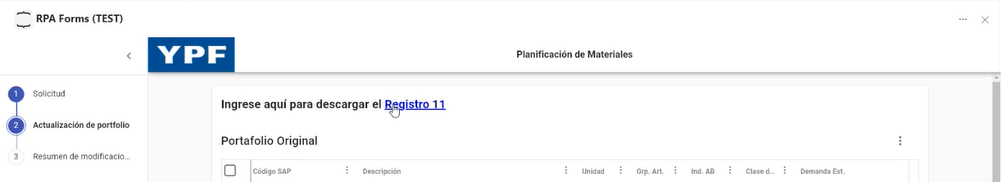
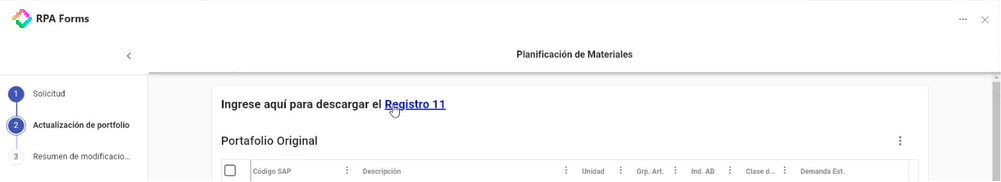
GITBOOK-34: actualizacion imagenes

diff --git a/diseno-de-formularios/desarrollo-integral-de-un-formulario/campos-de-fecha-y-hora.md b/diseno-de-formularios/desarrollo-integral-de-un-formulario/campos-de-fecha-y-hora.md
@@ -1,18 +1,18 @@
 # Campos de fecha y hora
 
-Los elementos _**Date**_ y _**DateTime**_ permiten agregar un calendario donde el usuario seleccionará un día, mes y año (y, en el caso de _**DateTime**_, también una hora). A diferencia de otras opciones para ingresar el mismo tipo de datos (por ejemplo, un campo de texto con máscaras), estas herramientas son especialmente útiles para unificar formatos y evitar errores en la carga de información.&#x20;
+Los elementos _**Date**_ y _**DateTime**_ permiten agregar un calendario donde el usuario seleccionará un día, mes y año (y, en el caso de _**DateTime**_, también una hora). A diferencia de otras opciones para ingresar el mismo tipo de datos (por ejemplo, un campo de texto con máscaras), estas herramientas son especialmente útiles para unificar formatos y evitar errores en la carga de información.
 
 ## Date
 
 Los campos de fecha pueden utilizarse para ubicar en el tiempo eventos importantes o delimitar plazos. Dado que su función es muy específica, sus opciones de personalización son limitadas y el formato ya estará predefinido.
 
-<figure><img src="../../.gitbook/assets/RPA_2_17.png" alt=""><figcaption><p>Inserción de un campo de tipo <em><strong>Date</strong></em></p></figcaption></figure>
+
+
+<figure><img src="../../.gitbook/assets/build_elementos_higlight_field_date.png" alt=""><figcaption><p>Inserción de un campo de tipo <em><strong>Date</strong></em></p></figcaption></figure>
 
 Añadiremos un campo requerido _**Date**_ en la sección de "Datos personales" del formulario para que el usuario pueda escoger su fecha de nacimiento. Para ello, vamos a reorganizar los campos existentes en este apartado, reduciendo el espacio reservado para el DNI y la clave tributaria de modo que aparezcan en la misma fila. Recuerda que deberás dirigirte a _**Properties > General > Size**_ y modificar el tamaño de ambos campos a 6 unidades para que ocupen la mitad del espacio. Se reacomodarán de forma automática, liberando un espacio debajo para que ingresemos el nuevo componente _**Date**_.
 
 Una vez añadido, definiremos el valor “fecha\_nacimiento” para la propiedad _**Name**_ que se registrará internamente y el valor “Fecha de nacimiento” para la propiedad _**Label**_, que visualizará el usuario.
-
-
 
 {% embed url="https://youtu.be/BQhyNHkiDjc" %}
 
